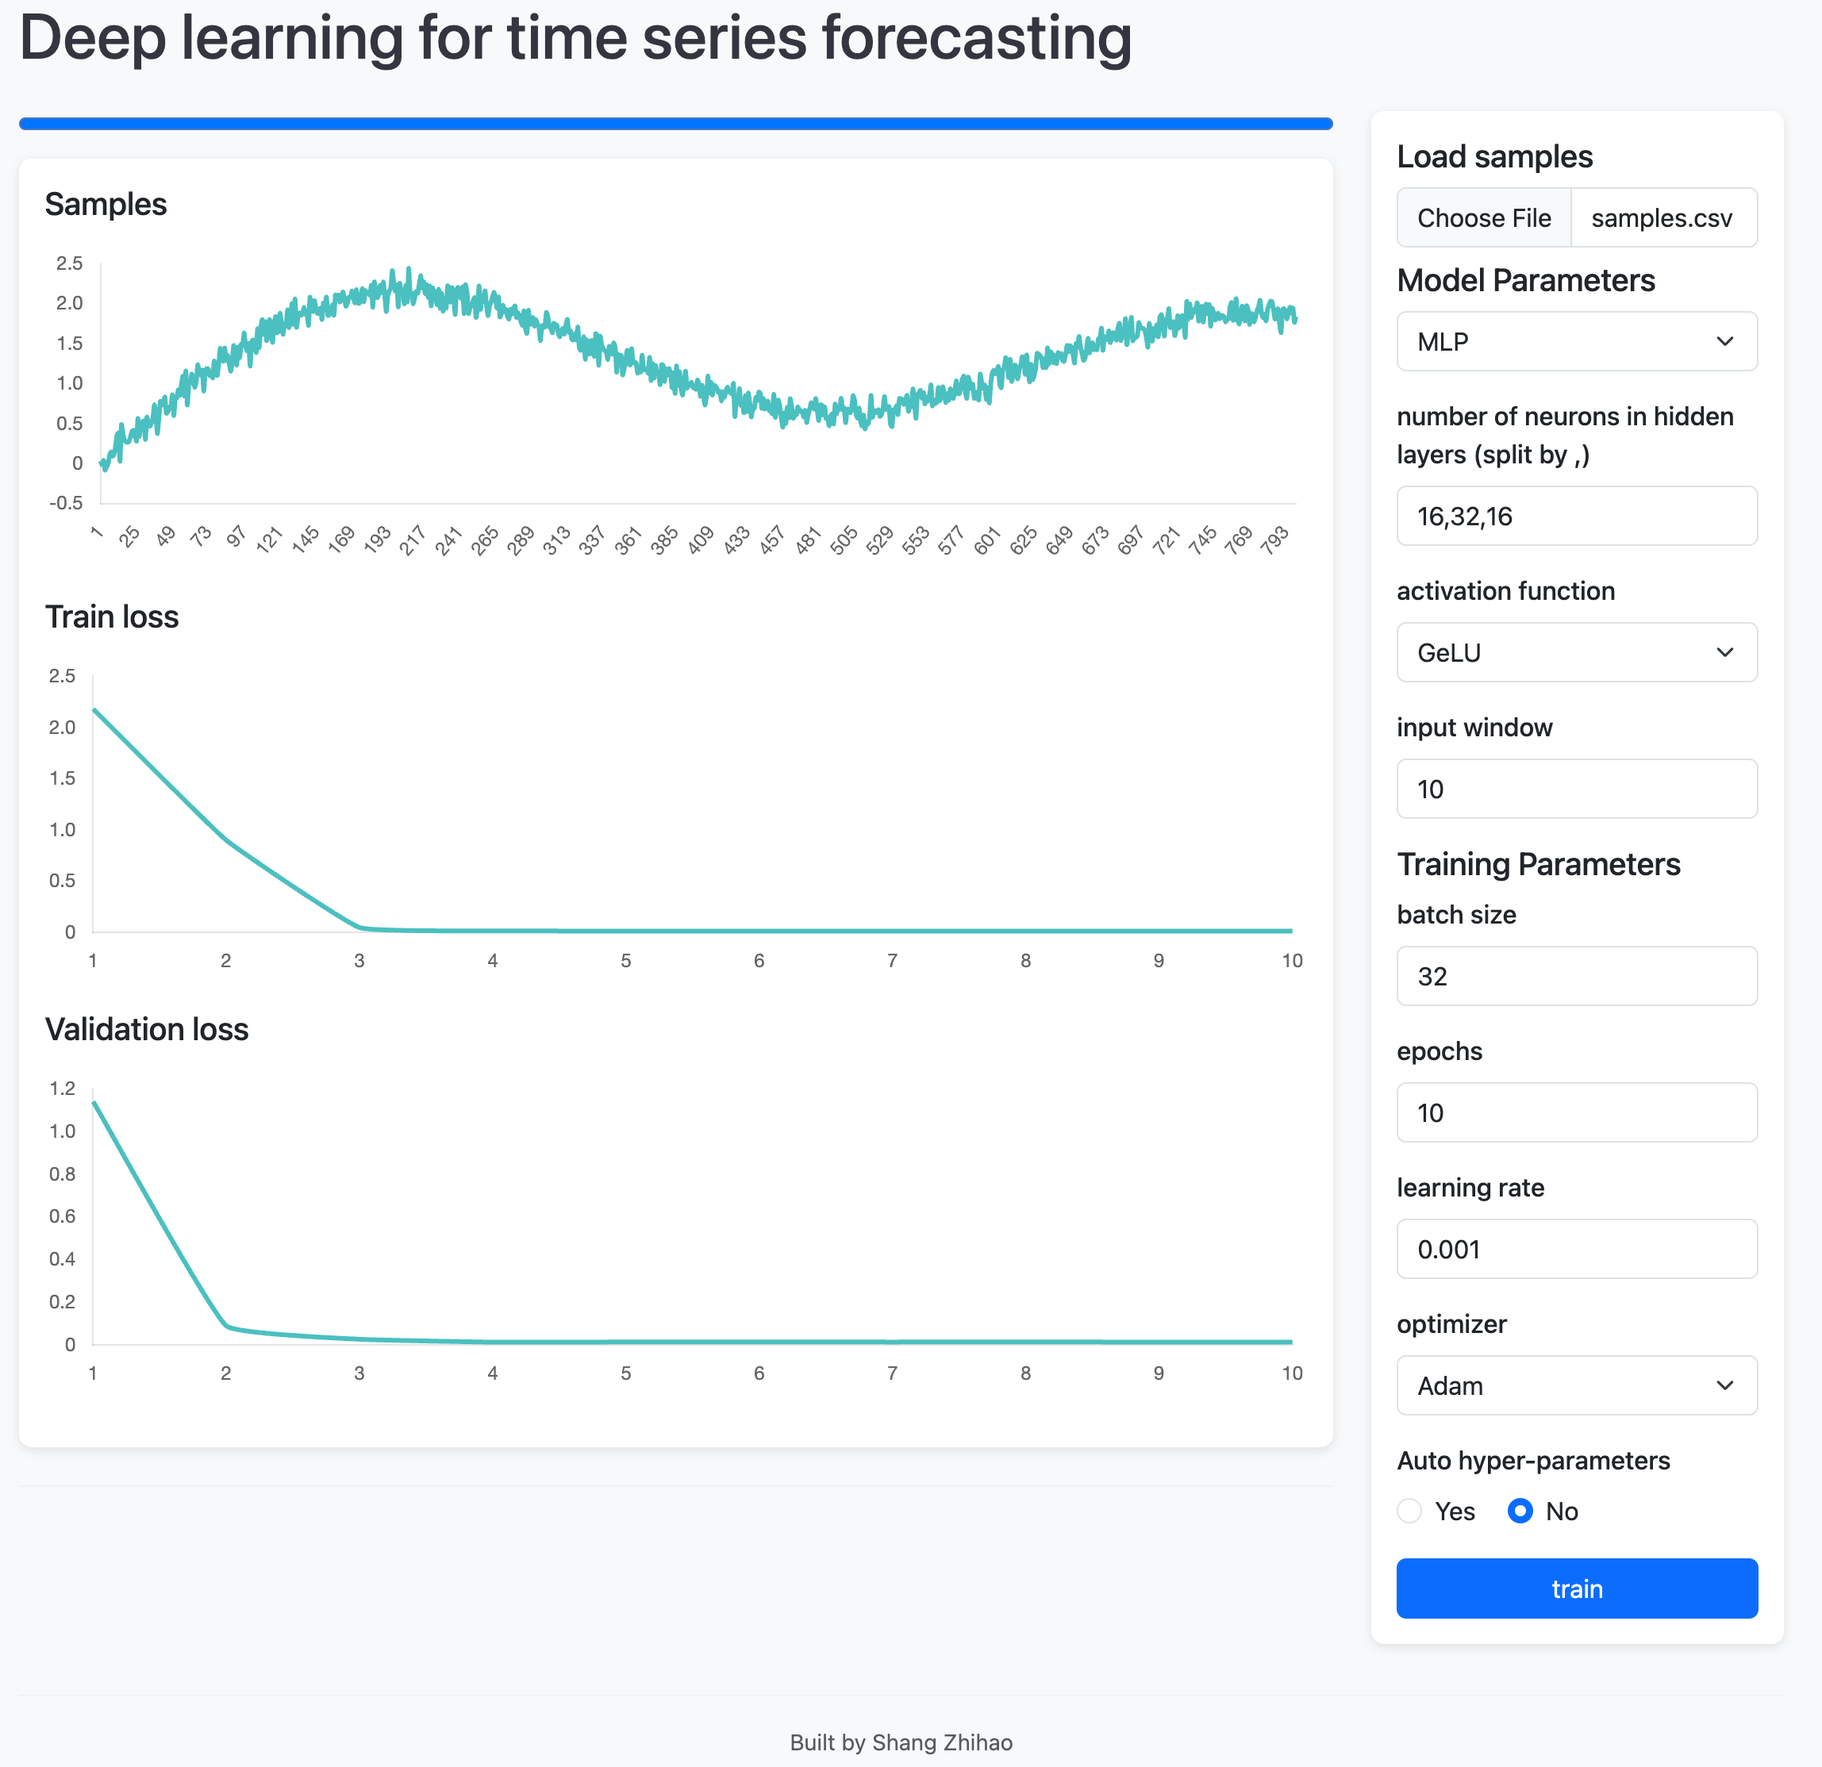
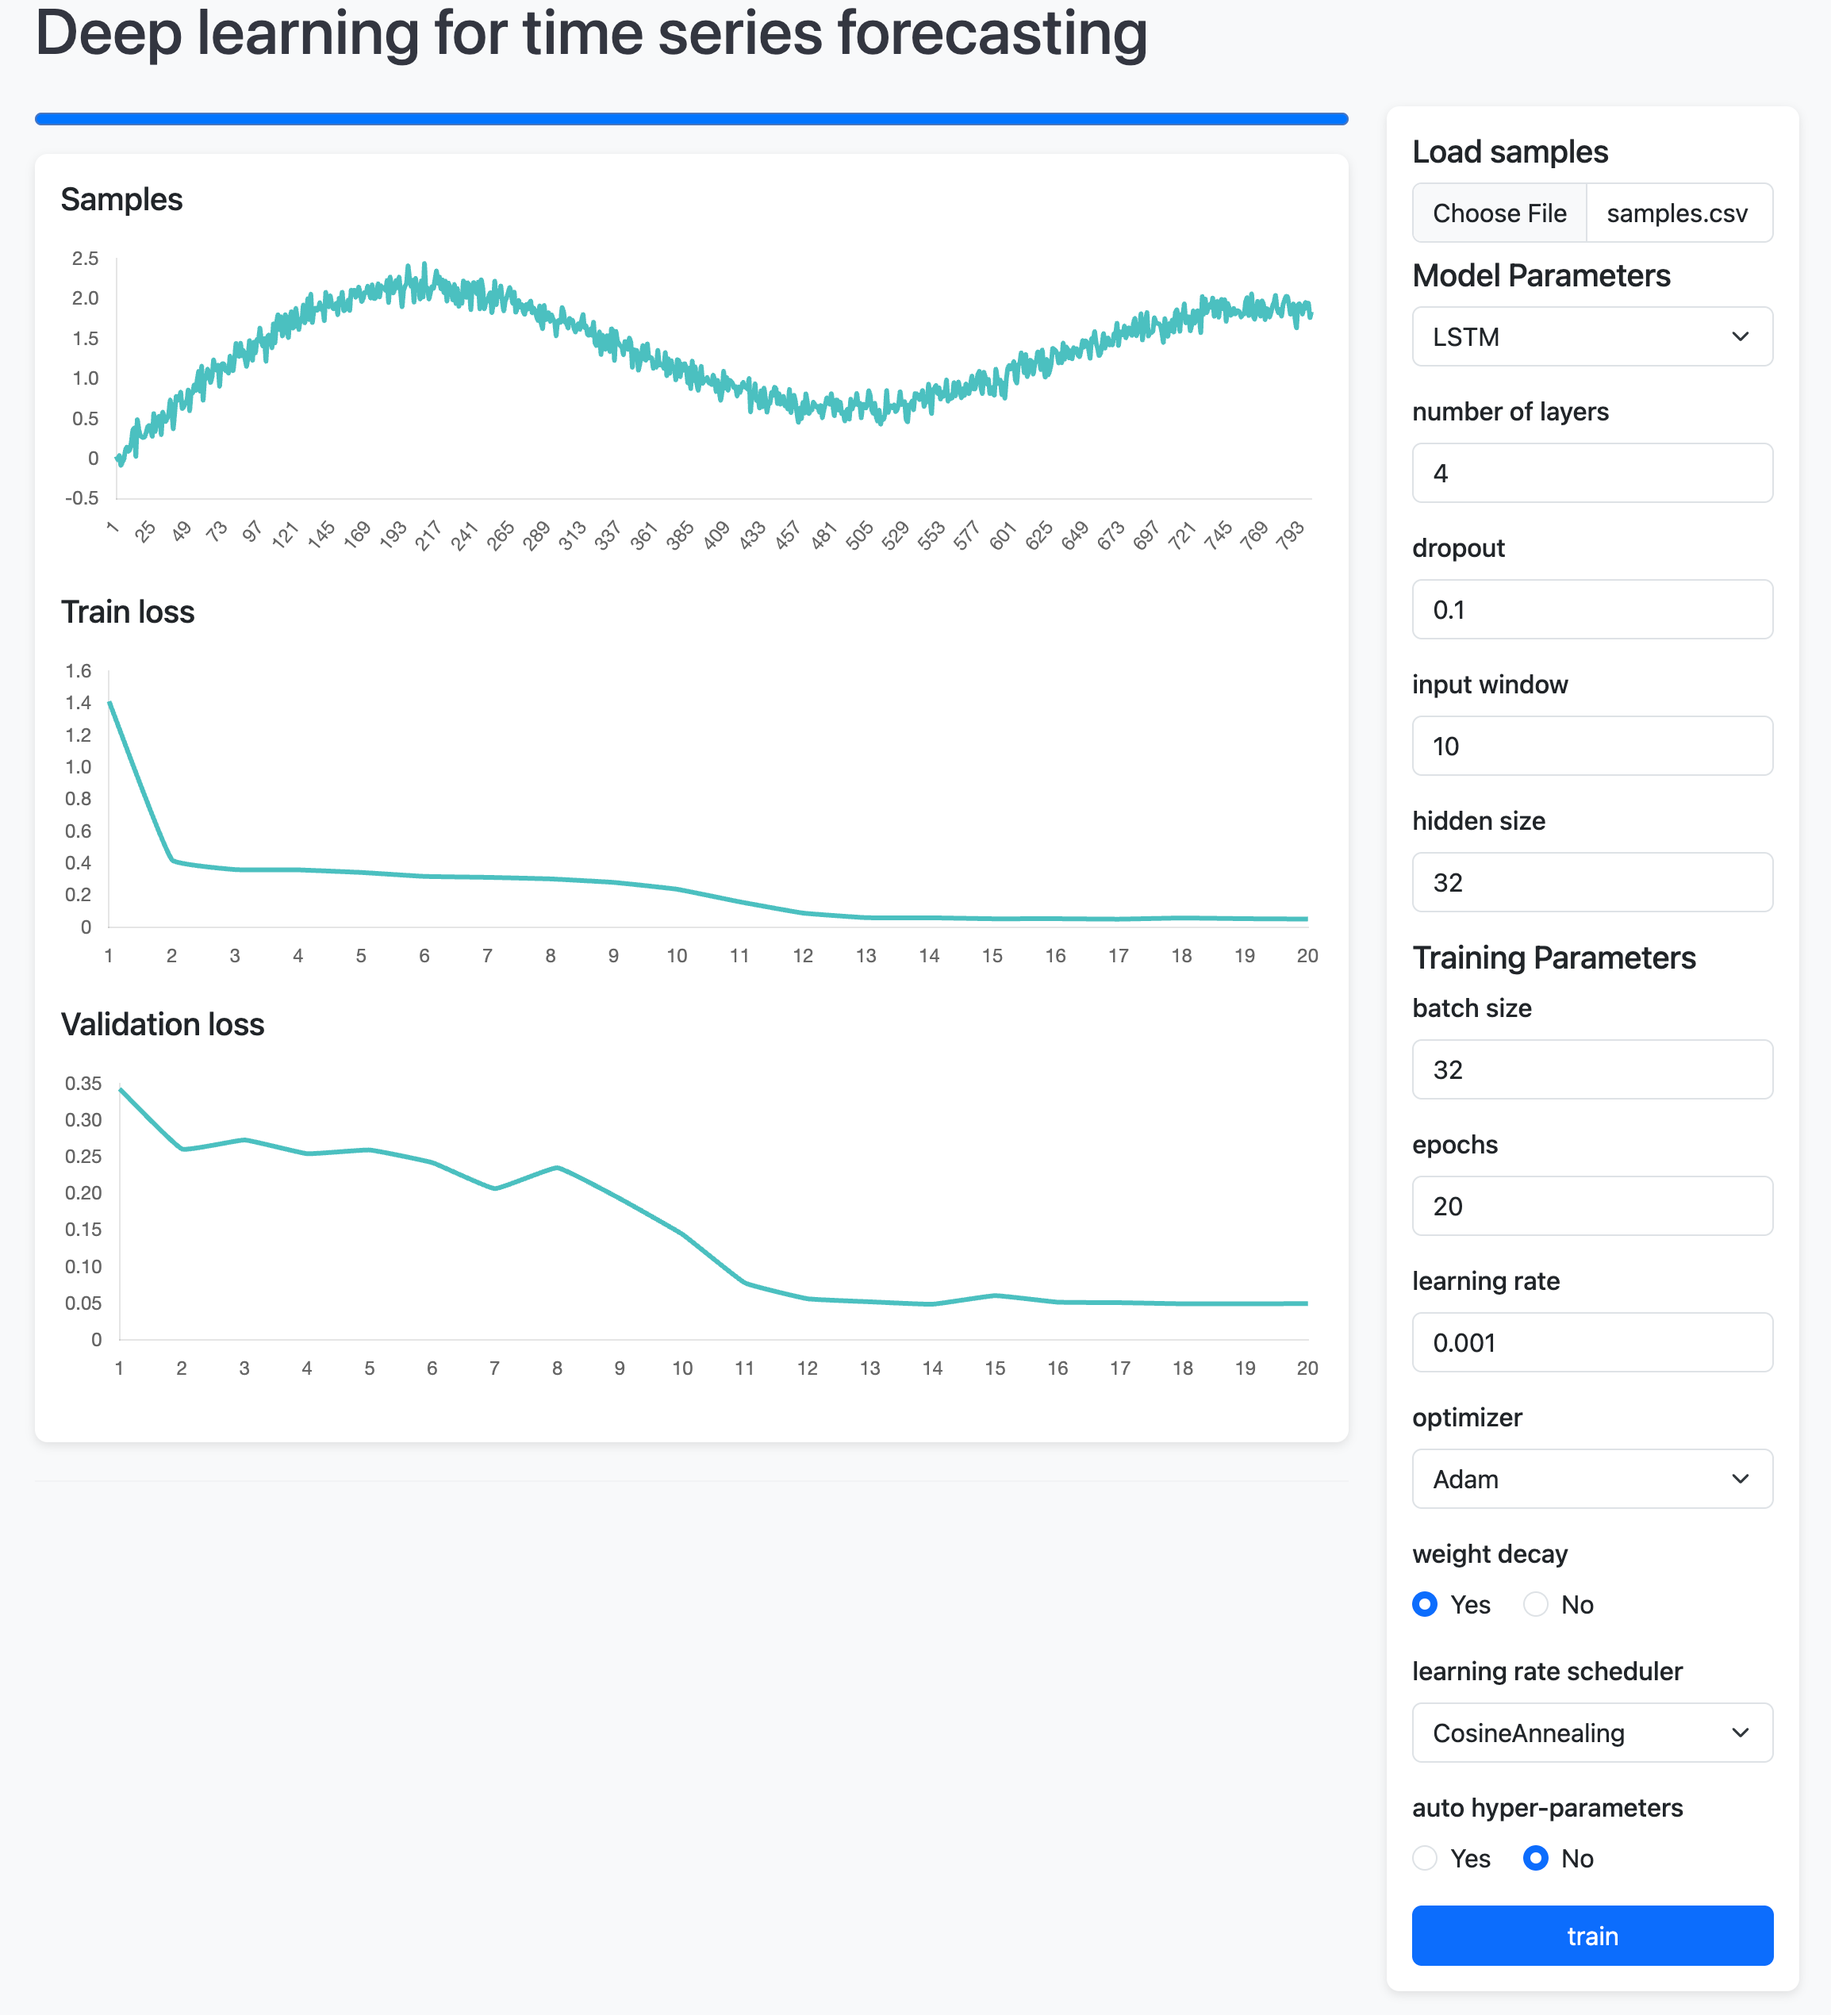
LSTM predictor

diff --git a/static/script/script.js b/static/script/script.js
@@ -90,25 +90,31 @@ document.addEventListener("DOMContentLoaded", function () {
   document.getElementById("train-btn").addEventListener("click", function () {
     const model = document.getElementById("modelSelect").value;
     let data = { model };
-
+    // model parameters
     if (model === "MLP") {
       data.mlp_neurons = document.getElementById("mlp-neurons").value;
       data.mlp_act_fun = document.getElementById("mlp-act-fun").value;
       data.mlp_window = document.getElementById("mlp-window").value;
 
-      data.batch = document.getElementById("batch").value;
-      data.epochs = document.getElementById("epochs").value;
-      data.lr = document.getElementById("lr").value;
-      data.optim = document.getElementById("optim").value;
-      data.scheduler = document.getElementById("scheduler").value;
-      const autoRadio = document.querySelector('input[name="auto"]:checked');
-      data.auto = autoRadio ? autoRadio.value === "true" : false;
-      const decay = document.querySelector('input[name="decay"]:checked');
-      data.decay = decay ? decay.value === "true" : false;
     } else if (model === "LSTM") {
+      data.lstm_layers = document.getElementById("lstm-layers").value;
+      data.lstm_dropout = document.getElementById("lstm-dropout").value;
+      data.lstm_window = document.getElementById("lstm-window").value;
+      data.lstm_hidden = document.getElementById("lstm-hidden").value;
     } else if (model === "xLSTM") {
+    } else if (model === "TCN") {
     } else if (model === "Transformer") {
     }
+    // training parameters
+    data.batch = document.getElementById("batch").value;
+    data.epochs = document.getElementById("epochs").value;
+    data.lr = document.getElementById("lr").value;
+    data.optim = document.getElementById("optim").value;
+    data.scheduler = document.getElementById("scheduler").value;
+    const autoRadio = document.querySelector('input[name="auto"]:checked');
+    data.auto = autoRadio ? autoRadio.value === "true" : false;
+    const decay = document.querySelector('input[name="decay"]:checked');
+    data.decay = decay ? decay.value === "true" : false;
 
     // Get the selected file
     const fileInput = document.getElementById("samples");
@@ -168,7 +174,7 @@ function trackJob(jobId) {
                     valChart.data.datasets[0].label = "Validation Loss";
                     valChart.update();
                 }
-                
+                // update progress bar
                 const pbar = document.getElementById("train-progress");
                 pbar.style.display = "block";
                 if(progress.length > 0){

diff --git a/static/html/LSTM.html b/static/html/LSTM.html
@@ -3,10 +3,14 @@
     <input type="number" class="form-control" id="lstm-layers" value="4" min="1" step="1">
 </div>
 <div class="mb-3">
-    <label for="lstm-drop" class="form-label">dropout</label>
-    <input type="number" class="form-control" id="lstm-drop" value="0.1" min="0" max="1" step="0.1">
+    <label for="lstm-dropout" class="form-label">dropout</label>
+    <input type="number" class="form-control" id="lstm-dropout" value="0.1" min="0" max="1" step="0.1">
 </div>
 <div class="mb-3">
     <label for="lstm-window" class="form-label">input window</label>
     <input type="number" class="form-control" id="lstm-window" value="10" min="1" max="100" step="1">
+</div>
+<div class="mb-3">
+    <label for="lstm-hidden" class="form-label">hidden size</label>
+    <input type="number" class="form-control" id="lstm-hidden" value="32" min="1" max="256" step="1">
 </div>

diff --git a/static/index.html b/static/index.html
@@ -52,6 +52,7 @@
             <option value="MLP" selected>MLP</option>
             <option value="LSTM">LSTM</option>
             <option value="xLSTM">xLSTM</option>
+            <option value="TCN">TCN</option>
             <option value="Transformer">Transformer</option>
           </select>
           <form id="mlp-form">

diff --git a/docker/trainer.py b/docker/trainer.py
@@ -1,23 +1,21 @@
+import logging
 import os
-from pathlib import Path
 from dataclasses import asdict
-from torch.utils.data import DataLoader
+from pathlib import Path
+
 import mlflow
 import numpy as np
 import pandas as pd
 import torch
 import torch.nn as nn
+from config import LSTMConfig, MLPConfig, TrainConfig
 from mlflow.models.signature import ModelSignature
 from mlflow.types.schema import Schema, TensorSpec
-from config import TrainConfig, MLPConfig
-from models import MLP
+from models import MLP, LSTM_Model
+from torch.optim.lr_scheduler import (ConstantLR, CosineAnnealingLR, LinearLR,
+                                      LRScheduler, OneCycleLR)
+from torch.utils.data import DataLoader
 from tsdata import TSDataset
-import logging
-from torch.optim.lr_scheduler import CosineAnnealingLR
-from torch.optim.lr_scheduler import ConstantLR
-from torch.optim.lr_scheduler import LRScheduler
-from torch.optim.lr_scheduler import OneCycleLR
-from torch.optim.lr_scheduler import LinearLR
 
 logger = logging.getLogger(__name__)
 
@@ -68,17 +66,17 @@ def get_train_conf() -> TrainConfig:
     automl = envs.get("auto", "True").lower() == "true"
     decay = envs.get("decay", "True").lower() == "true"
     scheduler = envs.get("scheduler", "none")
-    train_params = {
-        "job_path": job_path,
-        "batch_size": batch_size,
-        "epochs": epochs,
-        "lr": lr,
-        "optim": optim,
-        "automl": automl,
-        "scheduler": scheduler if scheduler != "none" else None,
-        "decay": decay,
-    }
-    return TrainConfig(**train_params)  # type: ignore
+    return TrainConfig(
+        job_path=job_path,
+        batch_size=batch_size,
+        epochs=epochs,
+        lr=lr,
+        optim=optim,
+        automl=automl,
+        scheduler=scheduler if scheduler != "none" else None,
+        decay=decay,
+    )
+
 
 
 def get_mlp_conf() -> MLPConfig:
@@ -86,12 +84,21 @@ def get_mlp_conf() -> MLPConfig:
     hidden_dims = list(map(int, envs["mlp_neurons"].split(",")))
     act_str = envs["mlp_act_fun"]
     act_fun = str2act.get(act_str, nn.GELU)
-    model_params = {
-        "window": window,
-        "hidden_dims": hidden_dims,
-        "act_fun": act_fun,
-    }
-    return MLPConfig(**model_params)  # type: ignore
+    return MLPConfig(
+        window=window,
+        hidden_dims=hidden_dims,
+        act_fun=act_fun)
+
+def get_lstm_conf() -> LSTMConfig:
+    layers = int(envs["lstm_layers"])
+    dropout = float(envs["lstm_dropout"])
+    window = int(envs["lstm_window"])
+    hidden= int(envs["lstm_hidden"])
+    return LSTMConfig(
+        layers=layers,
+        dropout=dropout,
+        window=window,
+        hidden=hidden)
 
 
 def get_scheduler(
@@ -121,6 +128,9 @@ def train():
     if envs["model"] == "MLP":
         model_conf = get_mlp_conf()
         model = MLP(model_conf)
+    elif envs["model"] == "LSTM":
+        model_conf = get_lstm_conf()
+        model = LSTM_Model(model_conf)
     else:
         raise ValueError(f"Unsupported model type: {envs['model']}")
 

diff --git a/docker/models.py b/docker/models.py
@@ -1,6 +1,6 @@
 import pandas as pd
 import torch.nn as nn
-from config import MLPConfig
+from config import MLPConfig, LSTMConfig
 
 
 class MLP(nn.Module):
@@ -20,3 +20,17 @@ class MLP(nn.Module):
     def forward(self, x):
         return self.model(x)
 
+class LSTM_Model(nn.Module):
+    def __init__(self, config: LSTMConfig):
+        super().__init__()
+        self.lstm = nn.LSTM(
+            input_size=config.window,
+            hidden_size=config.hidden,
+            num_layers=config.layers,
+            batch_first=True,
+            dropout=config.dropout,
+        )
+        self.fc = nn.Linear(config.hidden, 1)
+    def forward(self, x):
+        lstm_out, _ = self.lstm(x)
+        return self.fc(lstm_out)

diff --git a/docker/config.py b/docker/config.py
@@ -25,7 +25,8 @@ class TrainConfig():
 from dataclasses import dataclass
 
 @dataclass
-class LSTMConfig:
+class LSTMConfig():
     layers: int
     dropout: float
-    input_window: int
+    window: int
+    hidden: int

diff --git a/README.md b/README.md
@@ -5,6 +5,7 @@ The data format should be as follows: two columns in a csv file, the first colum
 
 - Docker is required sice it trains the model in a docker container.
 - It does not support GPU training yet.
+- There is no data validation now, any invalid data will cause an error.
 - This is a FastAPI based web app. You can run it with the following command:
 ``` bash
 uvicorn main:app
